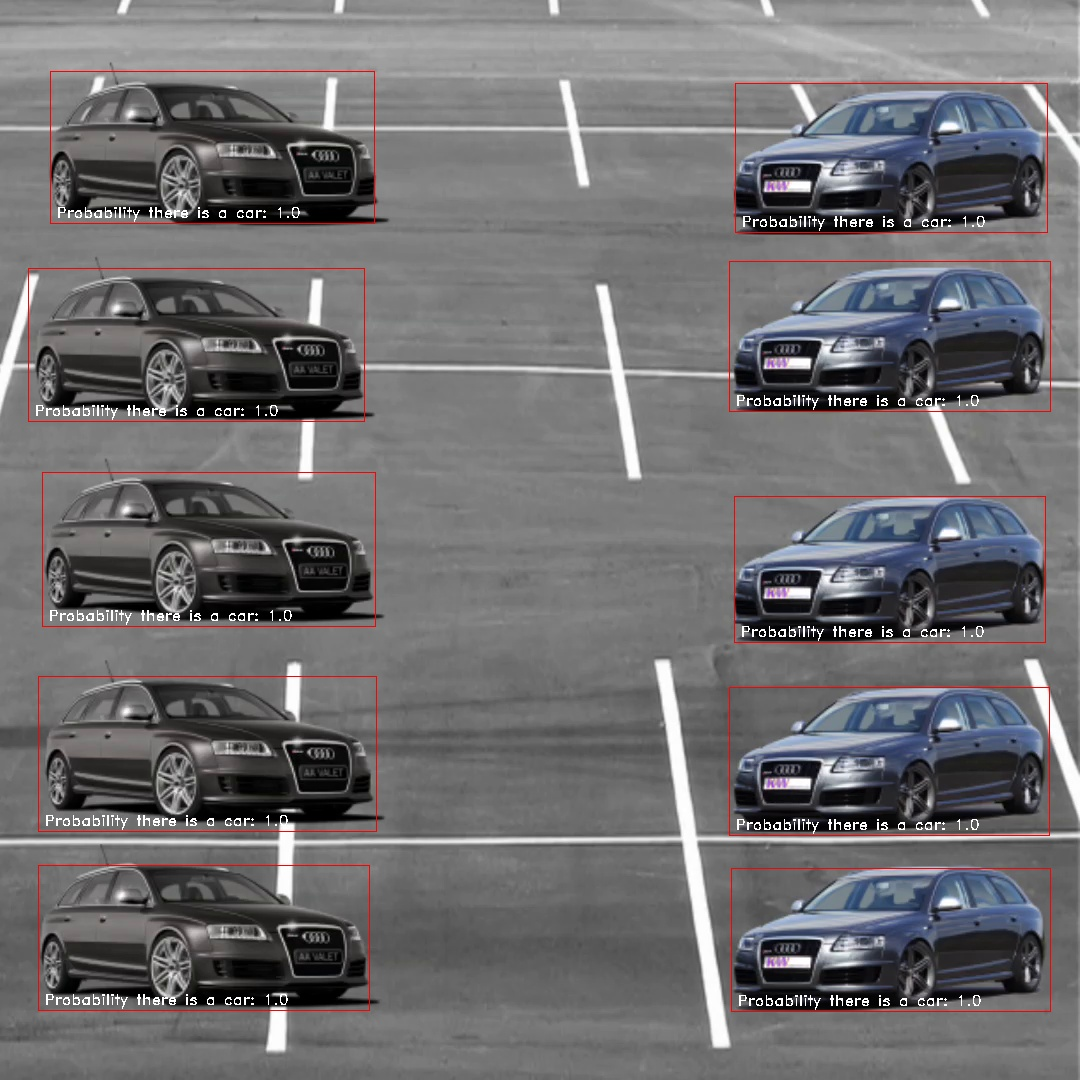
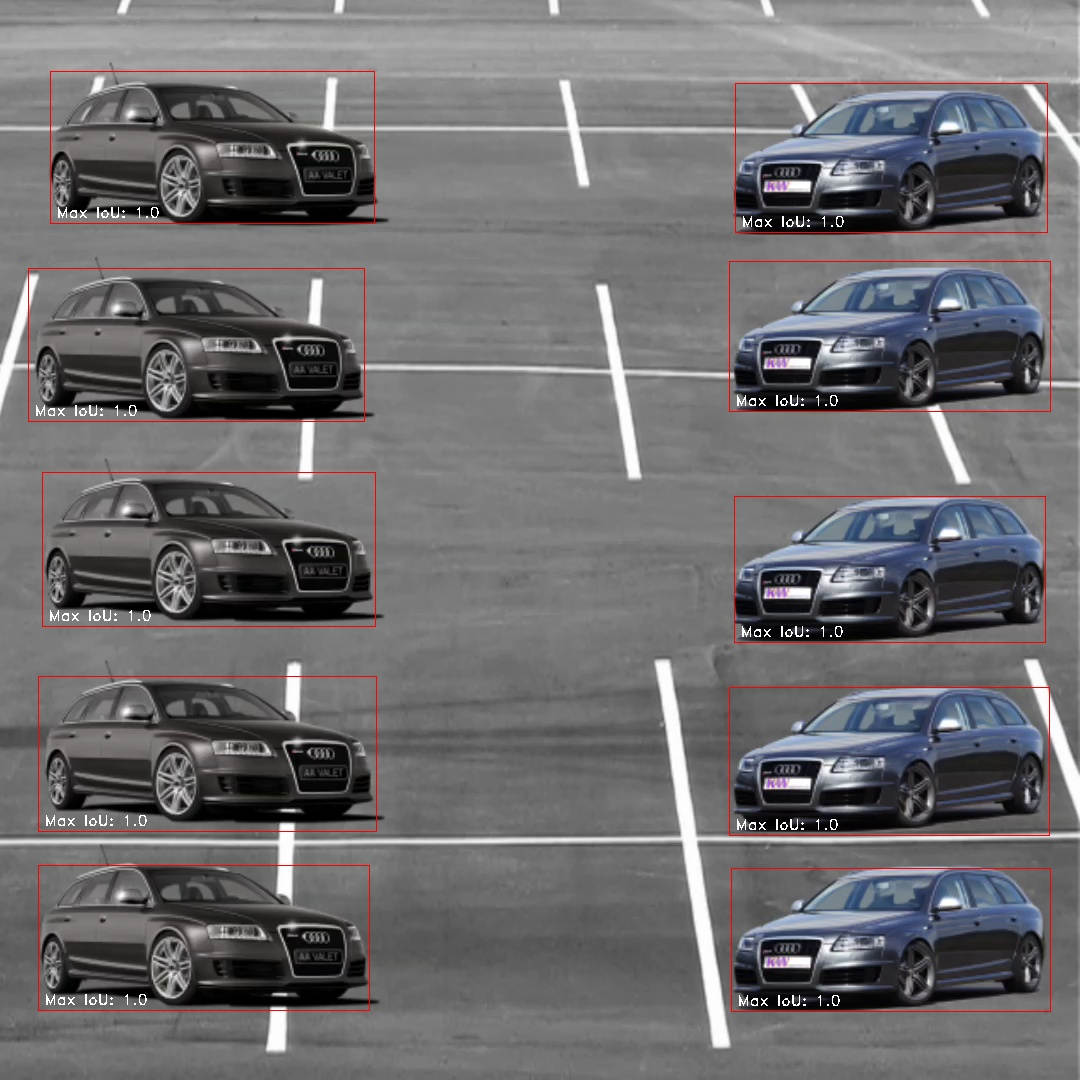
Added version in Kazakh

diff --git a/parking_kaz.html b/parking_kaz.html
@@ -1,0 +1,13 @@
+
+        <!DOCTYPE html>
+        <html>
+           <head>
+              <title>Көлік тұрағын бақылау</title>
+           </head>                                 
+           <body>
+              <p>Жалпы көлік тұрағының саны: 10</p>
+              <img width="50%" src="result/first_detection.jpg" alt="Табылған жалпы көлік тұрақтары."/> <br />
+              <p>Босаған көлік тұрақтарының саны: 3</p>
+              <img width="50%" src="result/last_detection.jpg" alt="Табылған бос көлік тұрақтары."/> <br />
+           </body>
+        </html>

diff --git a/detection_kaz.py b/detection_kaz.py
@@ -94,28 +94,28 @@ while video_capture.isOpened():
         # r['rois'] bounding box
         parked_car_boxes = get_car_boxes(r['rois'], r['class_ids'])
         total_car_boxes = len(parked_car_boxes)
-        print(f"Total parking spaces are {total_car_boxes}.")
+        print(f"Барлық көлік тұрағының саны {total_car_boxes}.")
         # get index and value of each detected space and show it
         for i, each_box in enumerate(parked_car_boxes):
             # Getting rid of unusual spaces for consistency
             box_without_spaces = str(each_box).replace('[ ', '[')\
                                               .replace('  ', ' ')
-            print(f"Parking space {i + 1} coordinates: ", box_without_spaces)
+            print(f"№ {i + 1} көлік тұрағы координаттары: ", box_without_spaces)
             # add each string to a simple list instead of complex numpy array
             parking_list.append(box_without_spaces)
             
         # Overwrite html so it could show us total number of parking spaces
-        detect("parking.html", f"""
+        detect("parking_kaz.html", f"""
         <!DOCTYPE html>
         <html>
            <head>
-               <title>Parking space monitoring</title>
+               <title>Көлік тұрағын бақылау</title>
            </head>                    
         <body>
-           <p>Total number of parking spaces: { total_car_boxes }</p>
-           <img width="50%" src="result/first_detection.jpg" alt="Total detected parking spaces."/> <br />
-           <p>Current free parking space number: { free_parking_space }</p>
-           <img width="50%" src="result/last_detection.jpg" alt="Currently free parking spaces."/> <br />
+           <p>Жалпы көлік тұрағының саны: { total_car_boxes }</p>
+           <img width="50%" src="result/first_detection.jpg" alt="Табылған жалпы көлік тұрақтары."/> <br />
+           <p>Босаған көлік тұрақтарының саны: { free_parking_space }</p>
+           <img width="50%" src="result/last_detection.jpg" alt="Табылған бос көлік тұрақтары."/> <br />
         </body>
         </html>""")
              
@@ -168,12 +168,12 @@ while video_capture.isOpened():
                 
             # Write the IoU measurement inside the box
             font = cv2.FONT_HERSHEY_DUPLEX
-            cv2.putText(frame, f"Probability there is a car: {max_IoU_overlap:0.2}", \
+            cv2.putText(frame, f"Max IoU: {max_IoU_overlap:0.2}", \
                                         (x1 + 6, y2 - 6), font, 0.5, (255, 255, 255))                   
             
         # How many free parking spaces do we have? Show it.
         free_parking_space = len(free_space_list)        
-        print(f"Available parking spaces: {free_parking_space}")
+        print(f"Қол жетімді көлік тұрақтары саны: {free_parking_space}")
         
         # Save the last detection image
         cv2.imwrite('result/last_detection.jpg', frame)
@@ -183,22 +183,22 @@ while video_capture.isOpened():
             first_detection = False
 
         # Overwrite html so we could see number of free parking spaces
-        detect("parking.html", f"""
+        detect("parking_kaz.html", f"""
         <!DOCTYPE html>
         <html>
            <head>
-              <title>Parking space monitoring</title>
+              <title>Көлік тұрағын бақылау</title>
            </head>                                 
            <body>
-              <p>Total number of parking spaces: { total_car_boxes }</p>
-              <img width="50%" src="result/first_detection.jpg" alt="Total detected parking spaces."/> <br />
-              <p>Current free parking space number: { free_parking_space }</p>
-              <img width="50%" src="result/last_detection.jpg" alt="Currently free parking spaces."/> <br />
+              <p>Жалпы көлік тұрағының саны: { total_car_boxes }</p>
+              <img width="50%" src="result/first_detection.jpg" alt="Табылған жалпы көлік тұрақтары."/> <br />
+              <p>Босаған көлік тұрақтарының саны: { free_parking_space }</p>
+              <img width="50%" src="result/last_detection.jpg" alt="Табылған бос көлік тұрақтары."/> <br />
            </body>
         </html>""")
 
         # Show the frame of video on the screen
-        cv2.imshow('To stop video, press "Q"', frame)
+        cv2.imshow('Video stop "Q"', frame)
 
     # Hit 'q' to quit
     if cv2.waitKey(1) & 0xFF == ord('q'):
